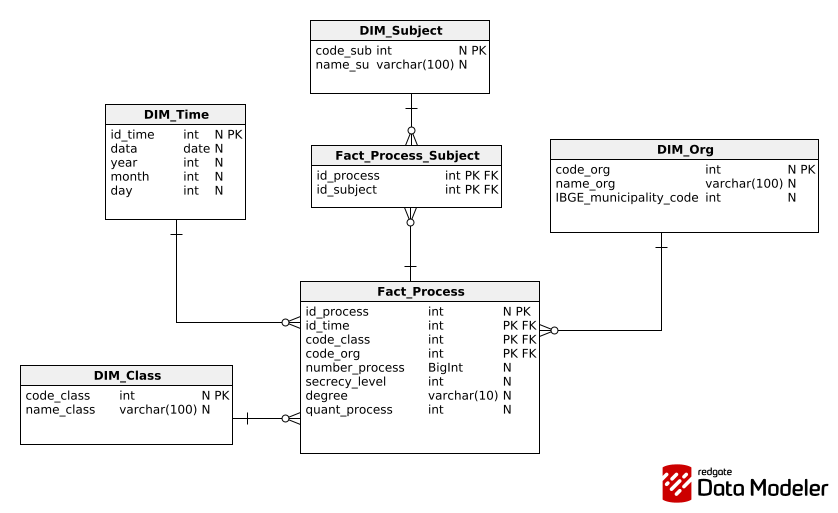
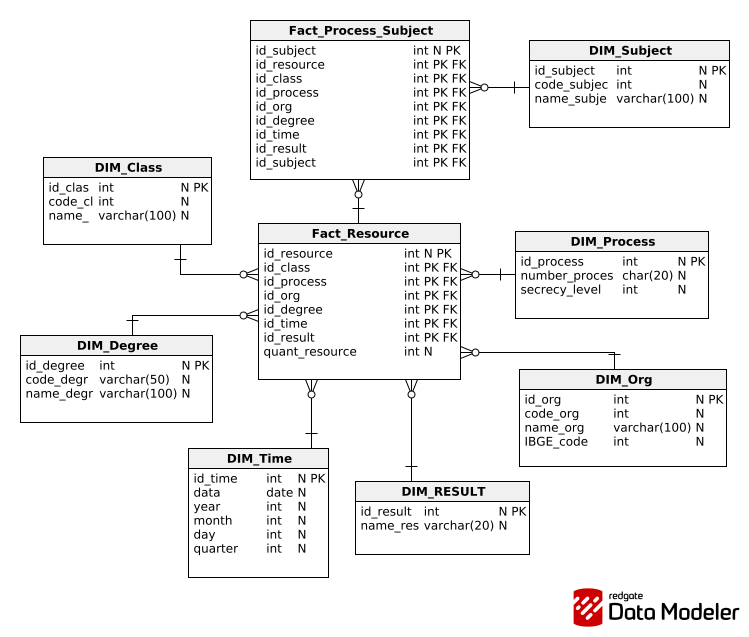
docs (Model Physical): Model Physical updated and restructured

diff --git a/architecture/Dimensional-Model.md b/architecture/Dimensional-Model.md
@@ -17,7 +17,7 @@ included in story-level `Estimate`; see the
 
 ## Physical model
 
-<img src="assets/Model_physical.png" width="500">
+<img src="assets/Model_Physical.png" width="500">
 
 ## Review observations — September 15, 2026
 
